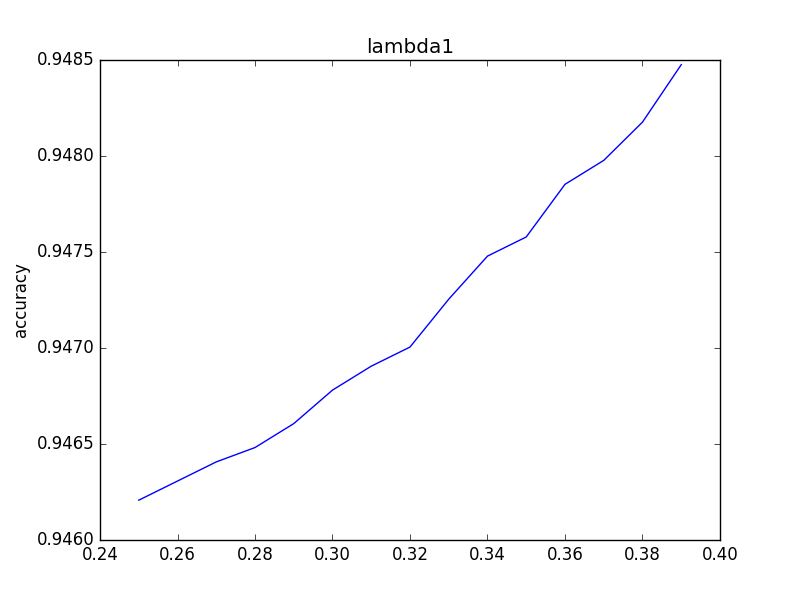
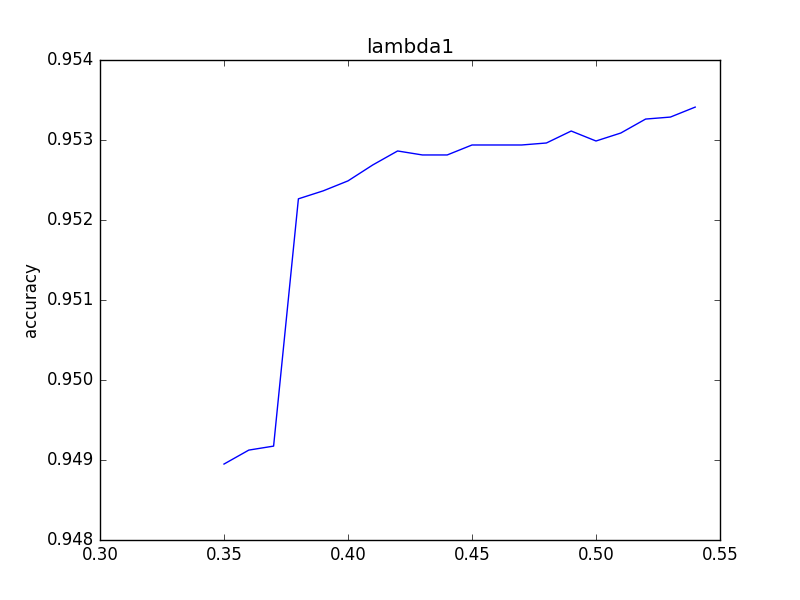
q3 results

diff --git a/assignment3/hmm.py b/assignment3/hmm.py
@@ -251,7 +251,7 @@ def hmm_eval(test_data, total_tokens, q_tri_counts, q_bi_counts, q_uni_counts, e
 def lambda_grid_search():
     accuracies1 = []
     lambdas1 = []
-    lambda1_list = [t/100.0 for t in range(30,50)]
+    lambda1_list = [t/100.0 for t in range(35,55)]
     lambda2 = 0.3
     for lambda1 in lambda1_list:
         if lambda1 + lambda2 >= 1:
@@ -261,7 +261,7 @@ def lambda_grid_search():
         accuracies1.append(acc_viterbi)
         lambdas1.append(lambda1)
 
-    best_index = numpy.argmin(accuracies1)
+    best_index = numpy.argmax(accuracies1)
     lambda1 = lambdas1[best_index]
     print("best lambda1 is {0}".format(lambda1))
 
@@ -278,7 +278,7 @@ def lambda_grid_search():
         accuracies2.append(acc_viterbi)
         lambdas2.append(lambda2)
 
-    best_index = numpy.argmin(accuracies2)
+    best_index = numpy.argmax(accuracies2)
     lambda2 = lambdas2[best_index]
     print("best lambda2 is {0}".format(lambda2))
 
